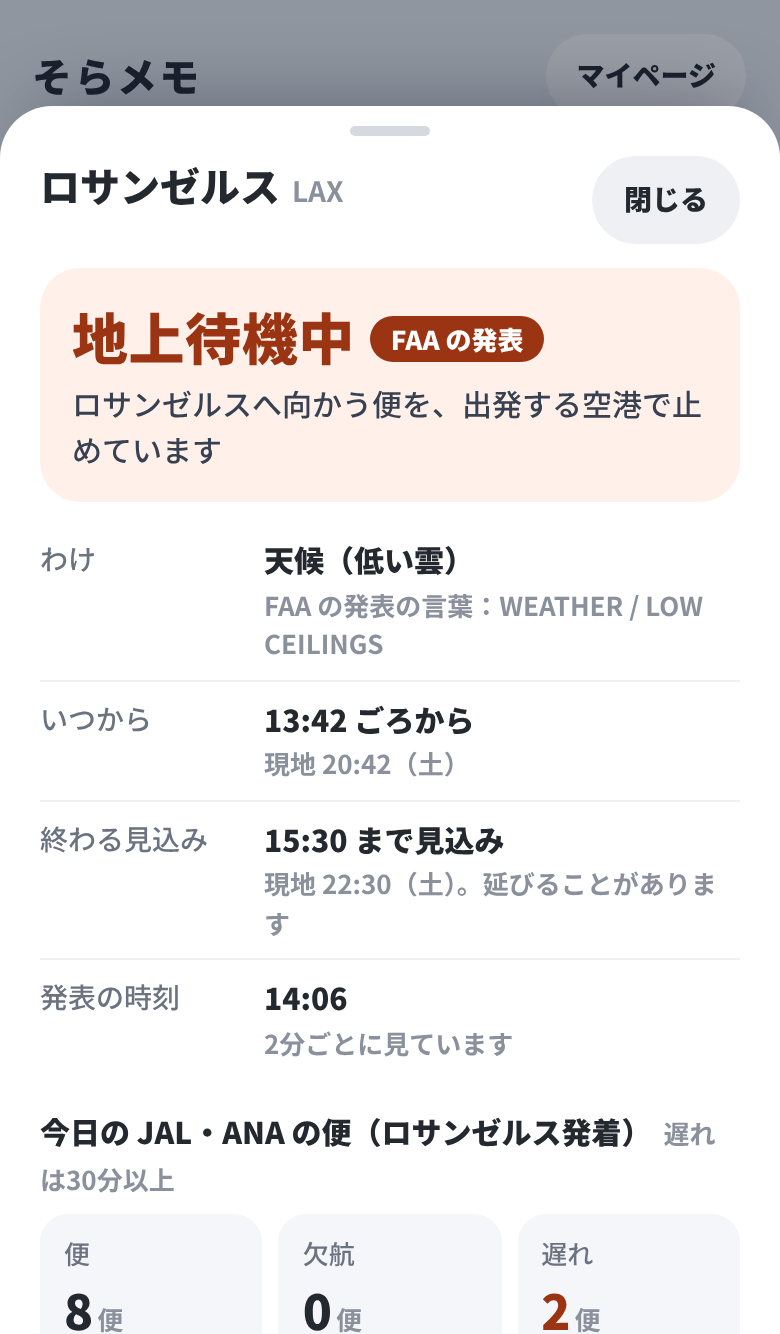
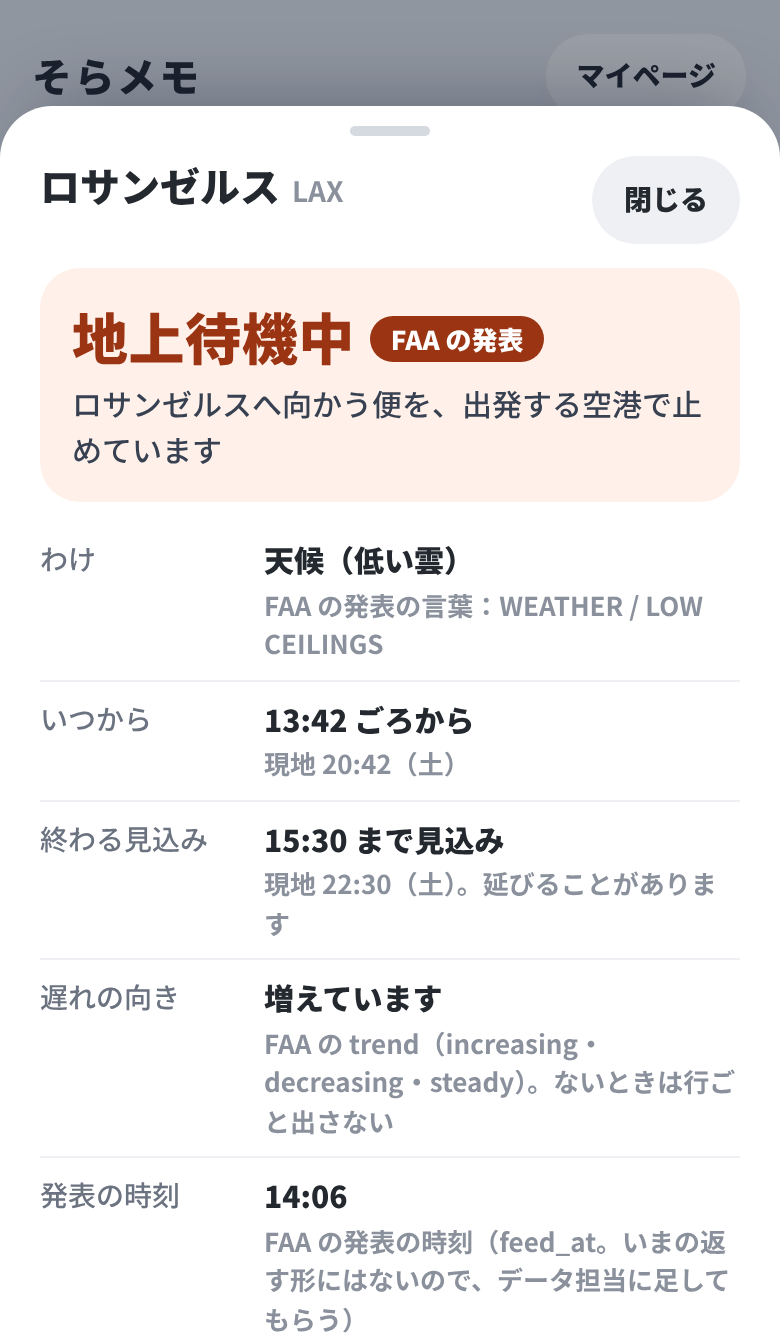
デザイン：止まり具合の札 W2 に遅れの向きを足し、返す形との違い（feed_at）を報告に書く
Claude-Session: https://claude.ai/code/session_01WGRBVJf1wcrdrowyBGQgVK

diff --git a/docs/design/world-ops/W2.html b/docs/design/world-ops/W2.html
@@ -151,4 +151,4 @@ p.lead{font-size:14px;color:var(--ink2);margin:0 0 12px;line-height:1.7}
 .nl{list-style:none;margin:12px 0 0;padding:0}
 .nl li{display:grid;grid-template-columns:30px 1fr;gap:10px;padding:8px 0;font-size:14px;line-height:1.6;color:var(--ink2)}
 .nl li i{font-style:normal;width:26px;height:26px;border-radius:50%;background:#C2410C;color:#fff;font-weight:900;font-size:14px;display:flex;align-items:center;justify-content:center}
-</style></head><body><div class="pad"><div class="brand"><b>そらメモ</b><span>マイページ</span></div><div class="seg"><span class="on">スタンプラリー</span><span>エアライン経営</span></div><div class="aprow"><span class="ap"><i>NRT</i>成田 ▾</span></div><div class="views"><span class="on">案内板</span><span>1日の山</span><span>滑走路</span><span>定時</span><span>空の道すじ</span></div><div class="card"><div class="bdhead"><h3>これから出る便</h3><span class="bdtabs"><span>到着</span><span class="on">出発</span></span></div><div class="bdtabs bdkind"><span>すべて</span><span>国内線</span><span class="on">国際線</span></div><ol class="bdseq"><li><span class="dot"></span><b>ソウル（仁川）へ</b><span class="fl"><i>国際</i>NH861・321</span><span class="rel">あと15分</span><span class="tm">定刻 14:25</span><span class="st s3"><svg viewBox="0 0 16 16" aria-hidden="true"><path d="M8 1a5 5 0 0 0-5 5c0 3.6 5 9 5 9s5-5.4 5-9a5 5 0 0 0-5-5zm0 7a2 2 0 1 1 0-4 2 2 0 0 1 0 4z"/></svg>今日 欠航3便</span></li><li><span class="dot"></span><b>ロサンゼルスへ</b><span class="fl"><i>国際</i>JL62・789</span><span class="rel">あと35分</span><span class="tm">定刻 14:45</span><span class="st s1"><svg viewBox="0 0 16 16" aria-hidden="true"><path d="M8 1a5 5 0 0 0-5 5c0 3.6 5 9 5 9s5-5.4 5-9a5 5 0 0 0-5-5zm0 7a2 2 0 1 1 0-4 2 2 0 0 1 0 4z"/></svg>地上待機中<small>FAA</small></span></li><li><span class="dot"></span><b>ホノルルへ</b><span class="fl"><i>国際</i>NH184・789</span><span class="rel">あと55分</span><span class="tm">定刻 15:05</span><span class="st s2"><svg viewBox="0 0 16 16" aria-hidden="true"><path d="M8 1a5 5 0 0 0-5 5c0 3.6 5 9 5 9s5-5.4 5-9a5 5 0 0 0-5-5zm0 7a2 2 0 1 1 0-4 2 2 0 0 1 0 4z"/></svg>到着の遅れ<small>FAA</small></span></li><li><span class="dot"></span><b>シンガポールへ</b><span class="fl"><i>国際</i>JL711・789</span><span class="rel">あと1時間15分</span><span class="tm">定刻 15:25</span></li></ol><p class="stkey"><svg viewBox="0 0 16 16" aria-hidden="true"><path d="M8 1a5 5 0 0 0-5 5c0 3.6 5 9 5 9s5-5.4 5-9a5 5 0 0 0-5-5zm0 7a2 2 0 1 1 0-4 2 2 0 0 1 0 4z"/></svg><span>ピンの札は、行き先の空港全体のようすです（この便のことではありません）。押すとくわしく出ます。</span></p></div></div><nav class="tabbar"><span class=""><svg viewBox="0 0 24 24"><path d="M4 11l8-7 8 7v9h-5v-6H9v6H4z"/></svg>ホーム</span><span class=""><svg viewBox="0 0 24 24"><path d="M4 5h7v15H4zM13 5h7v15h-7z"/></svg>図鑑</span><span class=""><svg viewBox="0 0 24 24"><path d="M3 13l18-7-7 18-2-8z"/></svg>フライト</span><span class="on"><svg viewBox="0 0 24 24"><circle cx="12" cy="12" r="8"/><circle cx="12" cy="12" r="3"/></svg>運用</span><span class=""><svg viewBox="0 0 24 24"><path d="M5 19h4v-5h4V9h4V5"/></svg>修行</span></nav><div class="dim"></div><div class="sheet"><div class="grab"></div><div class="shh"><h2>ロサンゼルス<small>LAX</small></h2><button>閉じる</button></div><div class="big s1"><div class="k"><b>地上待機中</b><span>FAA の発表</span></div><div class="why">ロサンゼルスへ向かう便を、出発する空港で止めています</div></div><ul class="kv"><li><span>わけ</span><b>天候（低い雲）<small>FAA の発表の言葉：WEATHER / LOW CEILINGS</small></b></li><li><span>いつから</span><b>13:42 ごろから<small>現地 20:42（土）</small></b></li><li><span>終わる見込み</span><b>15:30 まで見込み<small>現地 22:30（土）。延びることがあります</small></b></li><li><span>発表の時刻</span><b>14:06<small>2分ごとに見ています</small></b></li></ul><div class="subh">今日の JAL・ANA の便（ロサンゼルス発着）<small style="font-size:13px;font-weight:600;color:var(--sub);margin-left:6px">遅れは30分以上</small></div><div class="cnt3"><div><span>便</span><b>8<small>便</small></b></div><div><span>欠航</span><b>0<small>便</small></b></div><div class="hot"><span>遅れ</span><b>2<small>便</small></b></div></div><div class="box"><svg viewBox="0 0 24 24" aria-hidden="true"><circle cx="12" cy="12" r="9"/><path d="M12 11v6M12 7.5v.5"/></svg><span><b>運航の判断には使えません。</b>FAA（アメリカ連邦航空局）が出している空港のようすを、そらメモが日本語にしたものです。あなたの便が遅れるかどうかは、航空会社の案内で確かめてください。<br>出典：FAA NAS Status。運航の判断には使えません。遅れることがあります。便の数は JAL・ANA の運航情報（ODPT）から数えたものです</span></div></div></body></html>
+</style></head><body><div class="pad"><div class="brand"><b>そらメモ</b><span>マイページ</span></div><div class="seg"><span class="on">スタンプラリー</span><span>エアライン経営</span></div><div class="aprow"><span class="ap"><i>NRT</i>成田 ▾</span></div><div class="views"><span class="on">案内板</span><span>1日の山</span><span>滑走路</span><span>定時</span><span>空の道すじ</span></div><div class="card"><div class="bdhead"><h3>これから出る便</h3><span class="bdtabs"><span>到着</span><span class="on">出発</span></span></div><div class="bdtabs bdkind"><span>すべて</span><span>国内線</span><span class="on">国際線</span></div><ol class="bdseq"><li><span class="dot"></span><b>ソウル（仁川）へ</b><span class="fl"><i>国際</i>NH861・321</span><span class="rel">あと15分</span><span class="tm">定刻 14:25</span><span class="st s3"><svg viewBox="0 0 16 16" aria-hidden="true"><path d="M8 1a5 5 0 0 0-5 5c0 3.6 5 9 5 9s5-5.4 5-9a5 5 0 0 0-5-5zm0 7a2 2 0 1 1 0-4 2 2 0 0 1 0 4z"/></svg>今日 欠航3便</span></li><li><span class="dot"></span><b>ロサンゼルスへ</b><span class="fl"><i>国際</i>JL62・789</span><span class="rel">あと35分</span><span class="tm">定刻 14:45</span><span class="st s1"><svg viewBox="0 0 16 16" aria-hidden="true"><path d="M8 1a5 5 0 0 0-5 5c0 3.6 5 9 5 9s5-5.4 5-9a5 5 0 0 0-5-5zm0 7a2 2 0 1 1 0-4 2 2 0 0 1 0 4z"/></svg>地上待機中<small>FAA</small></span></li><li><span class="dot"></span><b>ホノルルへ</b><span class="fl"><i>国際</i>NH184・789</span><span class="rel">あと55分</span><span class="tm">定刻 15:05</span><span class="st s2"><svg viewBox="0 0 16 16" aria-hidden="true"><path d="M8 1a5 5 0 0 0-5 5c0 3.6 5 9 5 9s5-5.4 5-9a5 5 0 0 0-5-5zm0 7a2 2 0 1 1 0-4 2 2 0 0 1 0 4z"/></svg>到着の遅れ<small>FAA</small></span></li><li><span class="dot"></span><b>シンガポールへ</b><span class="fl"><i>国際</i>JL711・789</span><span class="rel">あと1時間15分</span><span class="tm">定刻 15:25</span></li></ol><p class="stkey"><svg viewBox="0 0 16 16" aria-hidden="true"><path d="M8 1a5 5 0 0 0-5 5c0 3.6 5 9 5 9s5-5.4 5-9a5 5 0 0 0-5-5zm0 7a2 2 0 1 1 0-4 2 2 0 0 1 0 4z"/></svg><span>ピンの札は、行き先の空港全体のようすです（この便のことではありません）。押すとくわしく出ます。</span></p></div></div><nav class="tabbar"><span class=""><svg viewBox="0 0 24 24"><path d="M4 11l8-7 8 7v9h-5v-6H9v6H4z"/></svg>ホーム</span><span class=""><svg viewBox="0 0 24 24"><path d="M4 5h7v15H4zM13 5h7v15h-7z"/></svg>図鑑</span><span class=""><svg viewBox="0 0 24 24"><path d="M3 13l18-7-7 18-2-8z"/></svg>フライト</span><span class="on"><svg viewBox="0 0 24 24"><circle cx="12" cy="12" r="8"/><circle cx="12" cy="12" r="3"/></svg>運用</span><span class=""><svg viewBox="0 0 24 24"><path d="M5 19h4v-5h4V9h4V5"/></svg>修行</span></nav><div class="dim"></div><div class="sheet"><div class="grab"></div><div class="shh"><h2>ロサンゼルス<small>LAX</small></h2><button>閉じる</button></div><div class="big s1"><div class="k"><b>地上待機中</b><span>FAA の発表</span></div><div class="why">ロサンゼルスへ向かう便を、出発する空港で止めています</div></div><ul class="kv"><li><span>わけ</span><b>天候（低い雲）<small>FAA の発表の言葉：WEATHER / LOW CEILINGS</small></b></li><li><span>いつから</span><b>13:42 ごろから<small>現地 20:42（土）</small></b></li><li><span>終わる見込み</span><b>15:30 まで見込み<small>現地 22:30（土）。延びることがあります</small></b></li><li><span>遅れの向き</span><b>増えています<small>FAA の trend（increasing・decreasing・steady）。ないときは行ごと出さない</small></b></li><li><span>発表の時刻</span><b>14:06<small>FAA の発表の時刻（feed_at。いまの返す形にはないので、データ担当に足してもらう）</small></b></li></ul><div class="subh">今日の JAL・ANA の便（ロサンゼルス発着）<small style="font-size:13px;font-weight:600;color:var(--sub);margin-left:6px">遅れは30分以上</small></div><div class="cnt3"><div><span>便</span><b>8<small>便</small></b></div><div><span>欠航</span><b>0<small>便</small></b></div><div class="hot"><span>遅れ</span><b>2<small>便</small></b></div></div><div class="box"><svg viewBox="0 0 24 24" aria-hidden="true"><circle cx="12" cy="12" r="9"/><path d="M12 11v6M12 7.5v.5"/></svg><span><b>運航の判断には使えません。</b>FAA（アメリカ連邦航空局）が出している空港のようすを、そらメモが日本語にしたものです。あなたの便が遅れるかどうかは、航空会社の案内で確かめてください。<br>出典：FAA NAS Status。運航の判断には使えません。遅れることがあります。便の数は JAL・ANA の運航情報（ODPT）から数えたものです</span></div></div></body></html>

diff --git a/docs/design/world-ops/make/make.py b/docs/design/world-ops/make/make.py
@@ -235,7 +235,8 @@ def w2():
           '<ul class="kv"><li><span>わけ</span><b>天候（低い雲）<small>FAA の発表の言葉：WEATHER / LOW CEILINGS</small></b></li>'
           '<li><span>いつから</span><b>13:42 ごろから<small>現地 20:42（土）</small></b></li>'
           '<li><span>終わる見込み</span><b>15:30 まで見込み<small>現地 22:30（土）。延びることがあります</small></b></li>'
-          '<li><span>発表の時刻</span><b>14:06<small>2分ごとに見ています</small></b></li></ul>'
+          '<li><span>遅れの向き</span><b>増えています<small>FAA の trend（increasing・decreasing・steady）。ないときは行ごと出さない</small></b></li>'
+          '<li><span>発表の時刻</span><b>14:06<small>FAA の発表の時刻（feed_at。いまの返す形にはないので、データ担当に足してもらう）</small></b></li></ul>'
           '<div class="subh">今日の JAL・ANA の便（ロサンゼルス発着）<small style="font-size:13px;font-weight:600;color:var(--sub);margin-left:6px">遅れは30分以上</small></div>'
           '<div class="cnt3"><div><span>便</span><b>8<small>便</small></b></div><div><span>欠航</span><b>0<small>便</small></b></div><div class="hot"><span>遅れ</span><b>2<small>便</small></b></div></div>'
           f'<div class="box">{INFO}<span><b>運航の判断には使えません。</b>FAA（アメリカ連邦航空局）が出している空港のようすを、そらメモが日本語にしたものです。あなたの便が遅れるかどうかは、航空会社の案内で確かめてください。<br>{NOTE}</span></div></div>')

diff --git a/docs/pm/report-world-ops-design.md b/docs/pm/report-world-ops-design.md
@@ -25,6 +25,7 @@ PM の指示：11/15 0時10分（決定事項【11/15】）。アプリには入
 測った値：13px 未満の字 0・44px 未満の押す所 0・横のはみ出し 0（10枚）
 
 ## 2. 迷った点
+- （11/15 2回目の回）移行169 の world_airport_ops の中身と照らした：種類6つ（ground_stop・gdp・closure・delay_arr・delay_dep・deicing）・reason・starts・ends・avg_delay・max_delay・trend・since（first_seen）・flights・cancelled・late30・note は画面案と合う。合わないのは2つ：「更新の時刻」（W1 の「14:06 更新」・W2 の発表の時刻）に使う feed_at を返していない／trend を画面に出していなかった → W2 に「遅れの向き」を足した（ないときは行ごと出さない）
 - 便の数の札を便の列にもつけるか：「欠航3便」がその便の欠航に見えるおそれ。ピンの印と説明の1行で分けたが、本人が紛らわしいと思えば、便の数は「海外の空港のいま」の欄だけにする
 - データの note は FAA と ODPT の両方を1文に書いているので、仁川（FAA なし）でも「出典：FAA NAS Status」が出る。W3 はそのまま出した。空港ごとに分けた文（FAA がある空港用・便の数だけの空港用）をデータ担当に頼むと読みやすい
 - gdp の言葉：データでは「出発の間引き」だが、日本で見る人には「その空港に着く便を減らしている」のが分かる「到着の間引き中」にした（W5）。どちらにするか
@@ -38,5 +39,5 @@ PM の指示：11/15 0時10分（決定事項【11/15】）。アプリには入
 4. 乗る便のカードの1行（W4・W4b）を入れてよいか。便の数だけの空港（W4b）も出すか
 
 ## 4. ほかの担当への依頼
-- データ担当へ：note を「FAA がある空港用」と「便の数だけの空港用」に分けて返せるか（W3）。FAA の reason の日本語の表（くわしくのわけに使う）。くわしくの「今日の便」に出す flights・cancelled・late30 はそのまま使える
+- データ担当へ：world_airport_ops に feed_at（FAA の発表の時刻）を足せるか（W1・W2 の更新の時刻）。note を「FAA がある空港用」と「便の数だけの空港用」に分けて返せるか（W3）。FAA の reason の日本語の表（くわしくのわけに使う）。くわしくの「今日の便」に出す flights・cancelled・late30 はそのまま使える
 - チェックイン担当へ：本人の答えのあと、案内板（boardHTML の .bdseq の li）に札、foreignHTML の上に「行き先の海外の空港のいま」、renderRideIntl の状態の1行の下に1行。押したときのシートは今の spsheet の形に合わせてよい
